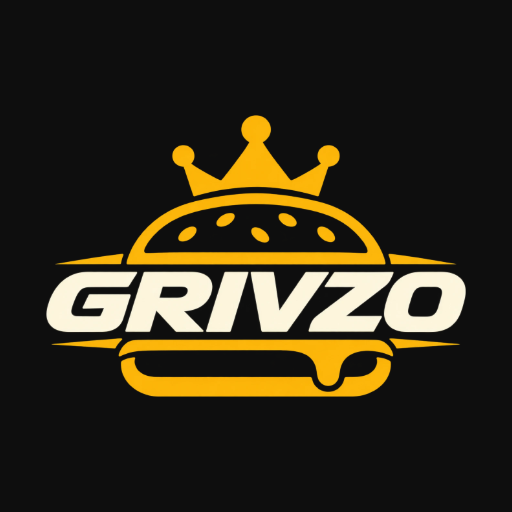
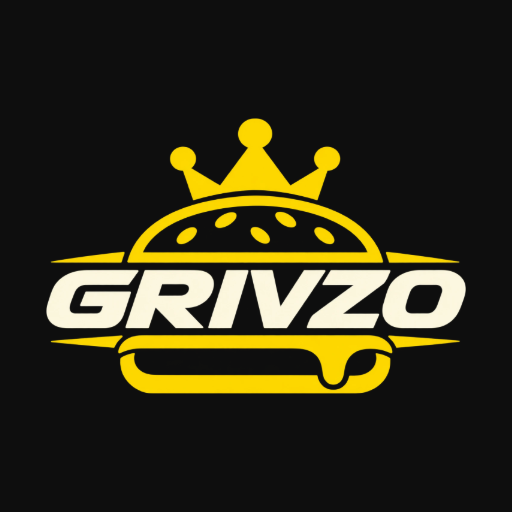
Новый яркий логотип GRIVZO и фирменный жёлтый цвет (#FED800) для кнопок

Changed region(s): [[0.0938, 0.2188, 0.9062, 0.7812]]

diff --git a/css/styles.css b/css/styles.css
@@ -4,11 +4,11 @@
 :root {
   --black: #0e0e0e;
   --ink: #161513;
-  --gold: #fdb913;
-  --gold-hover: #f0aa00;
-  --gold-soft: #fff4d4;
+  --gold: #fed800;   /* цвет логотипа GRIVZO (254, 216, 0) */
+  --gold-hover: #ecc800;
+  --gold-soft: #fff6c2;
   --milk: #f7f3ea;
-  --cream: #fdf6dc;
+  --cream: #fff9dc;
   --white: #ffffff;
   --muted: #827b6f;
   --line: #ebe4d5;
@@ -268,7 +268,7 @@ a { color: inherit; text-decoration: none; }
   opacity: 0;
   transition: width .3s var(--ease), margin .3s var(--ease), opacity .25s;
 }
-.catbar__logo img { position: absolute; width: 76px; height: auto; max-width: none; left: -3px; top: -2px; }
+.catbar__logo img { position: absolute; width: 70px; height: auto; max-width: none; left: -1.5px; top: 1px; }
 .catbar.is-stuck .catbar__logo { width: 70px; margin-right: 0; opacity: 1; }
 .catbar__scroll {
   flex: 1; min-width: 0;
